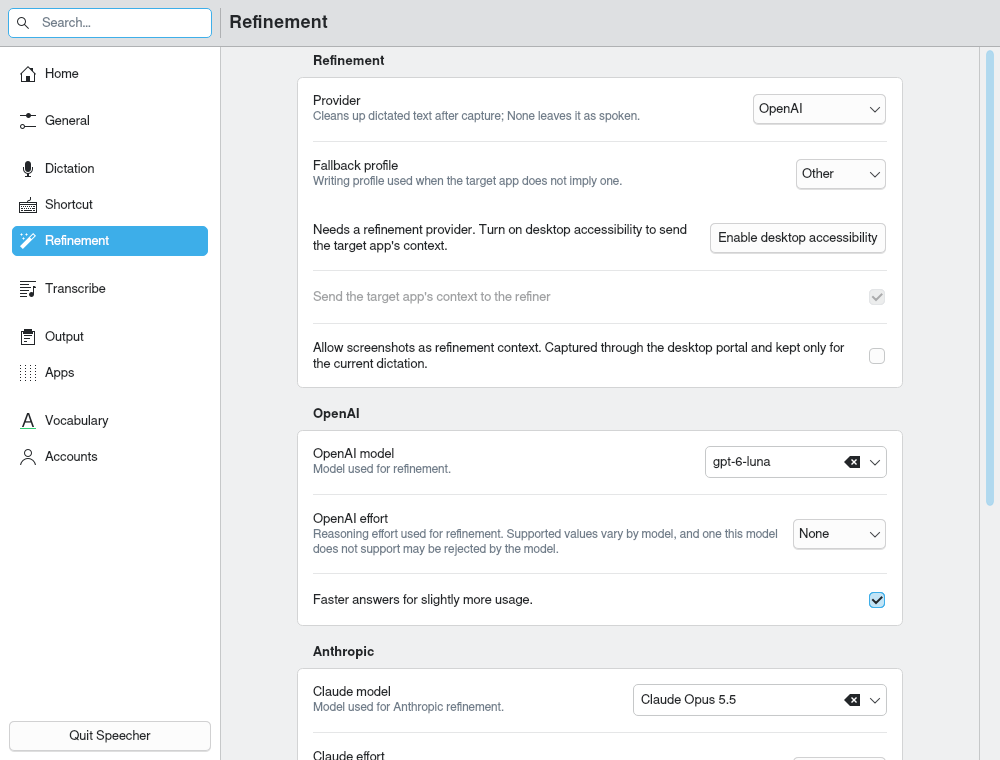
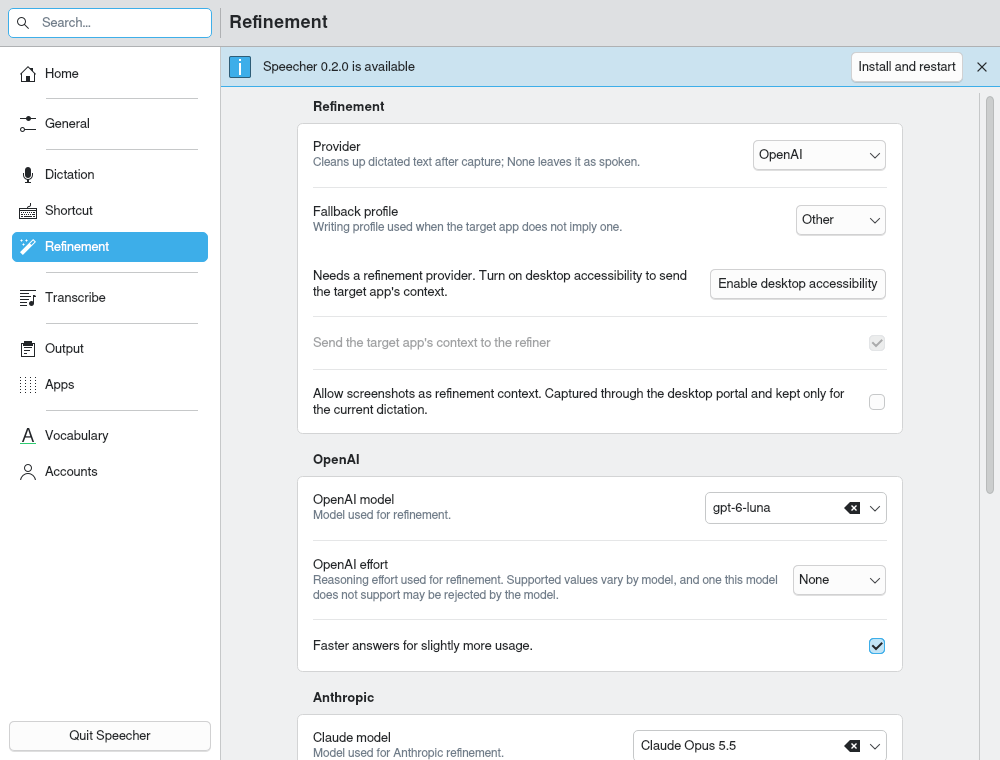
docs: re-take settings navigation screenshots with the sidebar separators

diff --git a/docs/img/settings-navigation/README.md b/docs/img/settings-navigation/README.md
@@ -1,12 +1,14 @@
 # One settings navigation on every platform
 
-Linux captures, offscreen with the KDE platform theme and Breeze Light in an
-isolated config (`SPEECHER_GRAB_PAGE=<page id>`). `local-localModels.png` is
+Linux captures at 16f13291, offscreen with the KDE platform theme and Breeze in
+an isolated config (`SPEECHER_GRAB_PAGE=<page id>`). `local-localModels.png` is
 from a build with local speech on.
 
+- `sidebar-separators.png`: the sidebar enlarged; a Breeze-drawn line between groups.
+- `sidebar-dark.png`: the same in Breeze Dark.
+- `sidebar-vs-systemsettings.png`: our sidebar beside KDE System Settings'.
 - `refinement.png`: model, effort and fast mode now on Refinement.
 - `shortcut.png`: the Global Shortcut recorder with Shortcut behavior under it.
 - `vocabulary-corrections.png`: Vocabulary's three views as tabs (`vocabulary:corrections`).
-- `whatsnew-1-pending.png`: What's New above Home while pending, with the sidebar runs.
-- `whatsnew-2-open.png`: What's New open, with Back.
-- `local-localModels.png`: Local models in the Dictation run.
+- `whatsnew-1-pending.png`: What's New above Home while pending.
+- `local-localModels.png`: Local models in the Dictation group.
